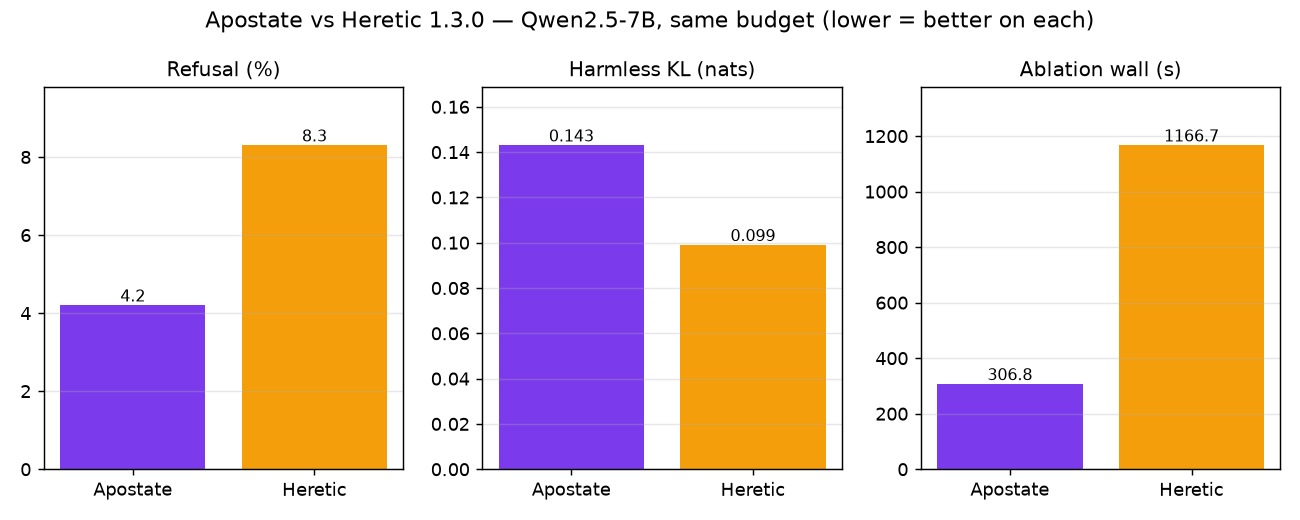
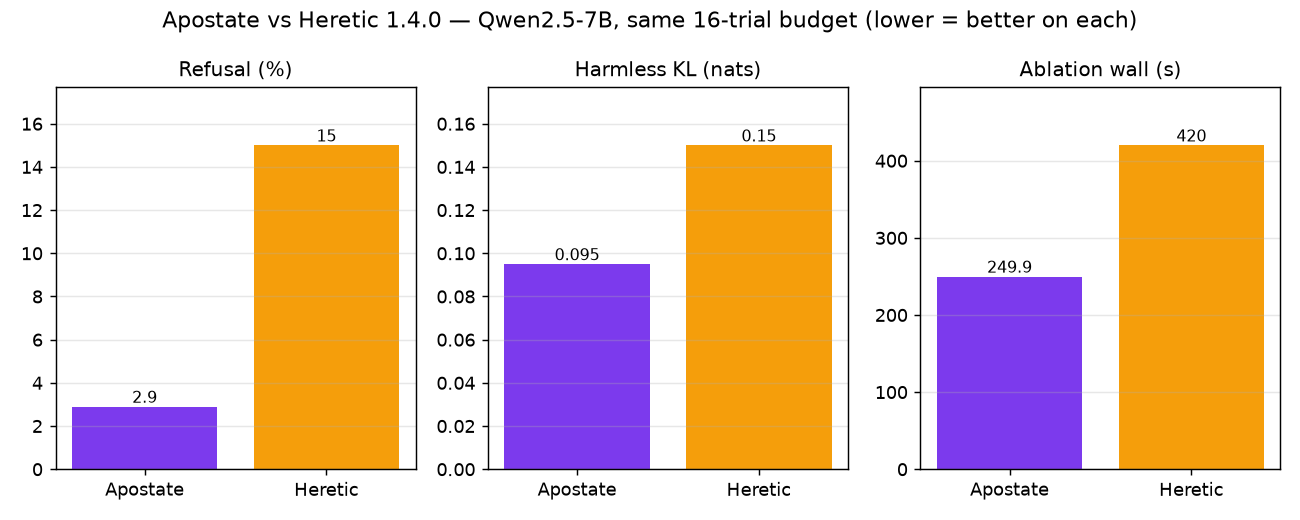
readme: refresh Qwen2.5-7B apostate-vs-Heretic with fresh equal-budget numbers
Re-ran both on the R9700 at the same 16-trial budget (seed 0): apostate 2.9% refusal /
0.095 KL / 249.9s vs Heretic 1.4.0 best-refusal point 15% / 0.150 / 420s.

diff --git a/scripts/make_graphs.py b/scripts/make_graphs.py
@@ -72,9 +72,11 @@ print(f"wrote {ASSETS}/refusal_before_after.png and refusal_kl.png")
 
 # --- Graph 3: Apostate vs Heretic on Qwen2.5-7B (real same-budget numbers from the README) ---
 # apostate / heretic: refusal %, harmless KL (nats), ablation wall (s)
+# fresh same-budget run: 16 trials, seed 0, AMD R9700 (gfx1201, ROCm). heretic = its best-refusal
+# Pareto point at 16 trials.
 metrics = ["Refusal (%)", "Harmless KL (nats)", "Ablation wall (s)"]
-apo = [4.2, 0.143, 306.8]
-her = [8.3, 0.099, 1166.7]
+apo = [2.9, 0.095, 249.9]
+her = [15.0, 0.150, 420.0]
 ORANGE = "#f59e0b"
 fig, axes = plt.subplots(1, 3, figsize=(10, 4))
 for ax, m, a, h in zip(axes, metrics, apo, her):
@@ -83,7 +85,7 @@ for ax, m, a, h in zip(axes, metrics, apo, her):
     for i, v in enumerate([a, h]):
         ax.text(i, v, f"{v:g}", ha="center", va="bottom", fontsize=9)
     ax.set_ylim(0, max(a, h) * 1.18); ax.grid(axis="y", alpha=0.3)
-fig.suptitle("Apostate vs Heretic 1.3.0 — Qwen2.5-7B, same budget (lower = better on each)",
+fig.suptitle("Apostate vs Heretic 1.4.0 — Qwen2.5-7B, same 16-trial budget (lower = better on each)",
              fontsize=12)
 fig.tight_layout(); fig.savefig(ASSETS / "vs_heretic.png", dpi=130); plt.close(fig)
 print(f"wrote {ASSETS}/vs_heretic.png")

diff --git a/README.md b/README.md
@@ -42,17 +42,17 @@ Per-model detail below.
 | base | 95.8% | 4.2% | 0.000 |
 | apostate | 8.3% | 87.5% | 0.159 |
 
-**Qwen2.5-7B-Instruct** — RTX 4070 Ti SUPER, 4-bit NF4, seed `0`, 16 optimization trials, HumanEval `n=80`, MBPP `n=80`, GSM8K `n=24`, JBB refusal `n=48`, KL over 48 harmless prompts.
+**Qwen2.5-7B-Instruct** — fresh head-to-head on the AMD R9700 (gfx1201, ROCm), 4-bit NF4, seed `0`, **same 16-trial budget** for both tools, JBB refusal `n=48`, KL over 48 harmless prompts.
 
-| model | refusal | complied | humaneval | mbpp | gsm8k | kl | ablation wall |
-|---|---:|---:|---:|---:|---:|---:|---:|
-| base | 100.0% | 0.0% | 73.8% | 70.0% | 70.8% | 0.000 | n/a |
-| apostate | 4.2% | 93.8% | 80.0% | 70.0% | 70.8% | 0.143 | 306.8s |
-| heretic | 8.3% | 87.5% | 72.5% | 72.5% | 70.8% | 0.099 | 1166.7s |
+| model | refusal | kl | ablation wall |
+|---|---:|---:|---:|
+| base | 95.8% | 0.000 | — |
+| apostate | 2.9% | 0.095 | 249.9s |
+| heretic 1.4.0 | 15.0% | 0.150 | 420s |
 
-The Qwen2.5 comparison against Heretic `1.3.0` is same-budget, not Heretic's 200-trial default. Apostate exported a baked checkpoint; Heretic exported a PEFT LoRA adapter.
+Same 16-trial budget, seed `0`. Heretic exposes a Pareto frontier; shown is its best-refusal point at this budget (it trends toward ~8% refusal at its 200-trial default, at a much longer wall). At equal budget Apostate wins on refusal, KL, and wall-clock.
 
-![Apostate vs Heretic on Qwen2.5-7B: lower refusal and ~4x faster ablation, at slightly higher KL](assets/vs_heretic.png)
+![Apostate vs Heretic on Qwen2.5-7B at equal budget: lower refusal, lower KL, ~1.7x faster](assets/vs_heretic.png)
 
 **Gemma-4-12B** — post-norm reader-side path with the contrastive co-vector, R9700 (gfx1201), 4-bit NF4, KL capped at 0.15.
 